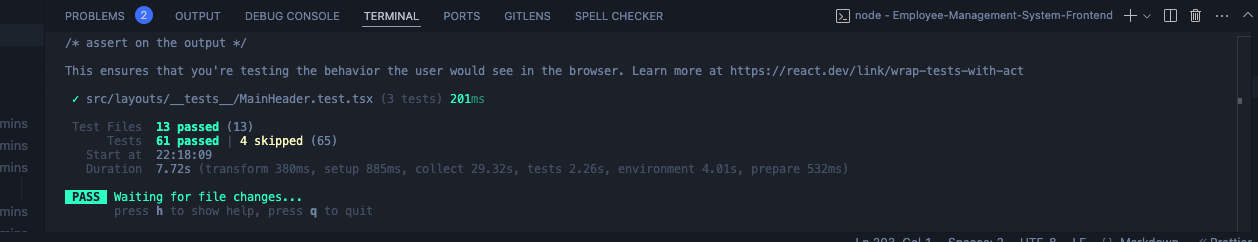
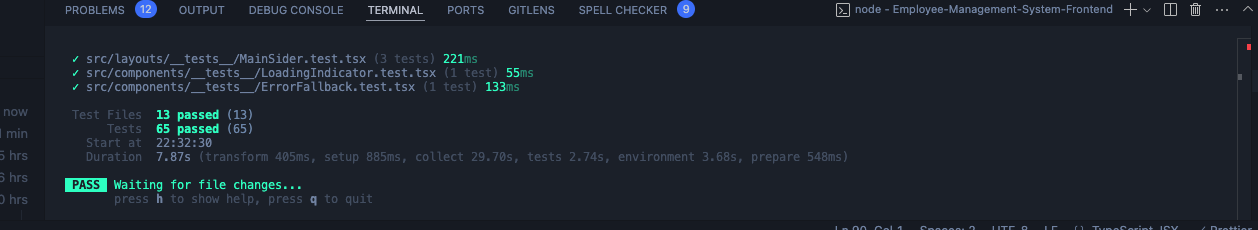
remove skip test cases

diff --git a/Employee-Management-System-Frontend/src/features/employees/pages/__tests__/EmployeesTable.test.tsx b/Employee-Management-System-Frontend/src/features/employees/pages/__tests__/EmployeesTable.test.tsx
@@ -36,7 +36,7 @@ const renderComponent = (list = mockEmployees, deleteHandler = vi.fn()) => {
 };
 
 describe("EmployeesTable", () => {
-  it.only("renders table with employee data", async () => {
+  it("renders table with employee data", async () => {
     renderComponent();
     expect(screen.getByText("Name")).toBeInTheDocument();
     expect(screen.getByText("Email")).toBeInTheDocument();
@@ -72,7 +72,7 @@ describe("EmployeesTable", () => {
 
     const user = userEvent.setup();
     const deleteButton = screen.getByRole("button", {
-      name: /delete user jane lastName1/i,
+      name: /delete user firstName1 lastName1/i,
     });
 
     await user.click(deleteButton);

diff --git a/Employee-Management-System-Frontend/src/layouts/__tests__/MainSider.test.tsx b/Employee-Management-System-Frontend/src/layouts/__tests__/MainSider.test.tsx
@@ -29,7 +29,7 @@ describe("MainSider", () => {
     expect(addLink).toHaveAttribute("href", PATHS.ADD_EMPLOYEE_DETAIL);
   });
 
-  it.only("collapses and expands when toggle is clicked", () => {
+  it("collapses and expands when toggle is clicked", () => {
     renderWithRouter();
 
     const sider = document.querySelector(".ant-layout-sider")!;
